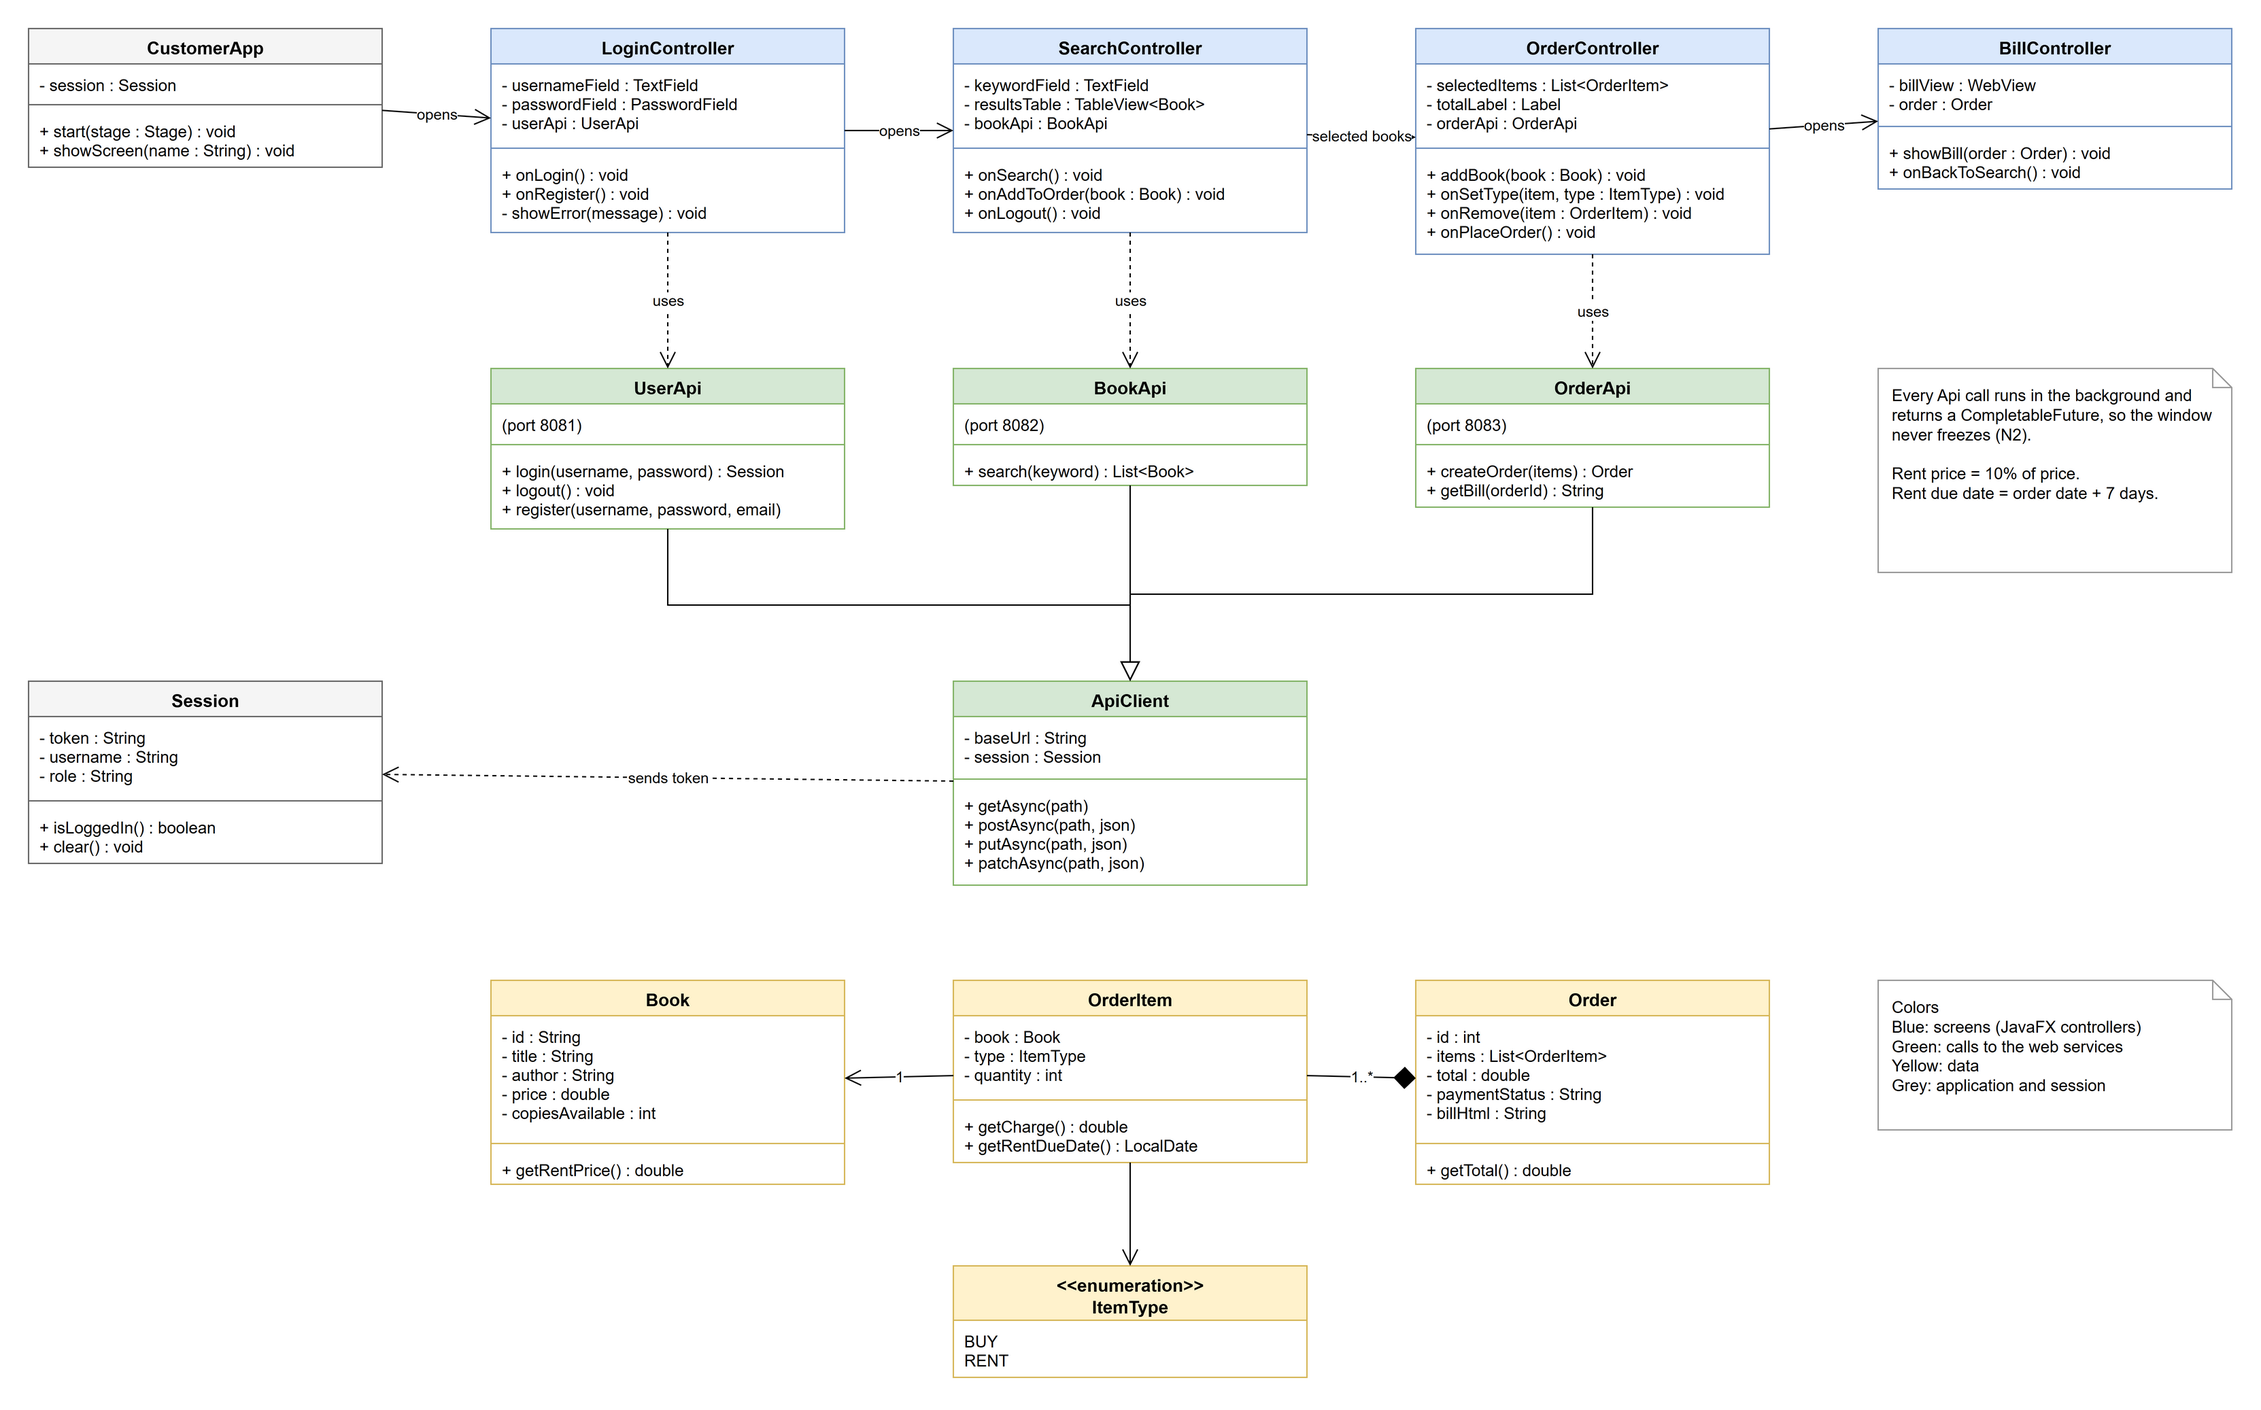
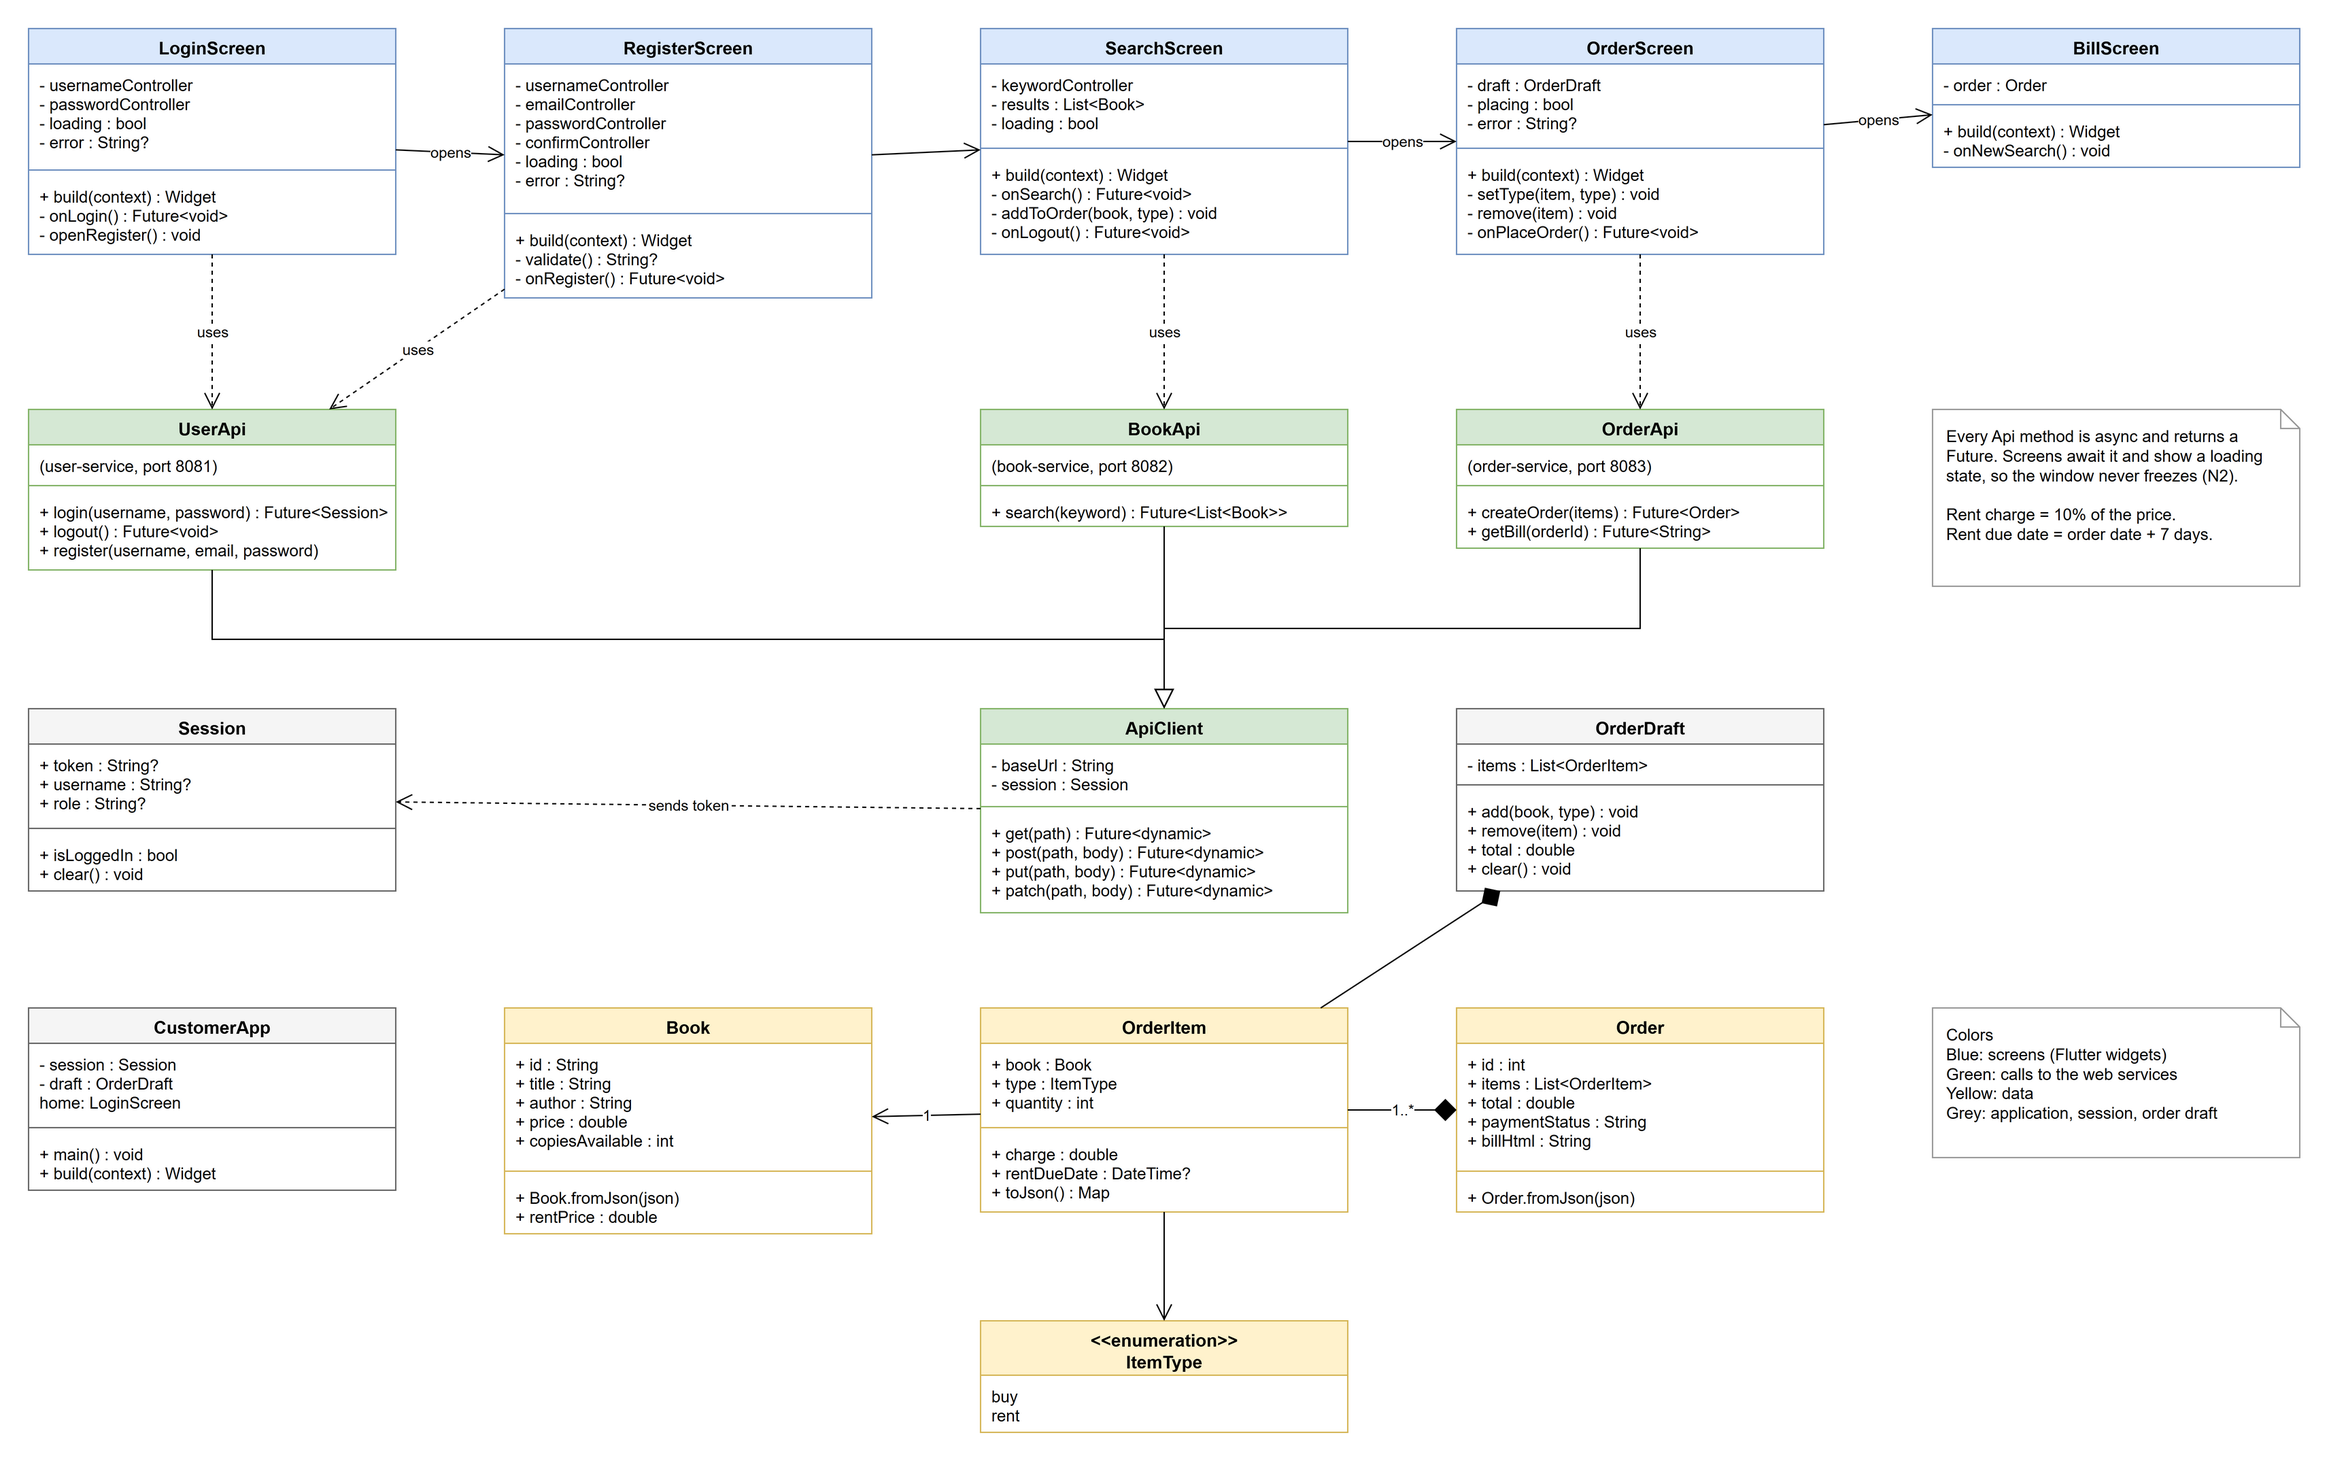
Switch the desktop apps from JavaFX to Flutter
UI and UX quality is the top priority, and Flutter gives smoother
animation and easier custom design on Windows desktop for the same
extra credit. Redraw both app class diagrams in Flutter terms and
update the other diagrams, docs, and tasks.

diff --git a/docs/02-design/class-diagrams.md b/docs/02-design/class-diagrams.md
@@ -2,15 +2,15 @@
 
 > Status: **draft**. To be finalized in milestone M2.
 
-The two desktop apps are separate JavaFX programs. Both are built the same way, in three layers:
+The two desktop apps are separate Flutter programs, written in Dart. Both are built the same way, in three layers:
 
 | Layer | Color in the diagrams | What it does |
 |---|---|---|
-| Screens (controllers) | Blue | One class per screen; reacts to buttons and shows data |
+| Screens | Blue | One widget per screen; shows data, reacts to buttons, and keeps the screen's own state (loading, error, selection) |
 | Service calls (`...Api`) | Green | One class per web service; sends HTTP requests with the session token |
-| Data | Yellow | Plain objects such as `Book` and `Order` |
+| Data | Yellow | Plain objects such as `Book` and `Order`, built from the JSON the services return |
 
-Every `...Api` class extends `ApiClient`, which sends each request in the background so the window never freezes (N2) and attaches the session token to it (N4).
+Every `...Api` class extends `ApiClient`. All of its methods are `async` and return a `Future`: the screen awaits the answer and shows a loading state meanwhile, so the window never freezes (N2). `ApiClient` also attaches the session token to every request (N4).
 
 ## Customer app
 
@@ -20,10 +20,12 @@ Source: [diagrams/class-customer-app.drawio](diagrams/class-customer-app.drawio)
 
 | Class | Purpose | Requirements |
 |---|---|---|
-| `LoginController` | Log in and register | FR1, FR3 |
-| `SearchController` | Search by keyword, show title/author/price, pick books, log out | FR2, FR4, FR5, FR6 |
-| `OrderController` | Hold the selected books, choose buy or rent for each, place the order | FR6, FR7 |
-| `BillController` | Show the bill returned for the order | FR8 |
+| `LoginScreen` | Log in | FR1 |
+| `RegisterScreen` | Create an account | FR3 |
+| `SearchScreen` | Search by keyword, show title/author/price, add books to the order, log out | FR2, FR4, FR5, FR6 |
+| `OrderScreen` | Review the selected books, choose buy or rent for each, place the order | FR6, FR7 |
+| `BillScreen` | Show the bill returned for the order | FR8 |
+| `OrderDraft` | The order being prepared, shared by the search and order screens | FR6 |
 | `UserApi`, `BookApi`, `OrderApi` | Calls to user-service, book-service, order-service | N2, N4 |
 | `Book`, `OrderItem`, `Order`, `ItemType` | Data; `OrderItem` works out the charge (10% when rented) and the rent due date (7 days) | FR7 |
 
@@ -35,11 +37,12 @@ Source: [diagrams/class-manager-app.drawio](diagrams/class-manager-app.drawio)
 
 | Class | Purpose | Requirements |
 |---|---|---|
-| `LoginController` | Log in; refuses anyone who is not a manager | FR1, FR11, N5 |
-| `OrdersController` | List all orders, mark an order as paid, view its bill | FR12, FR13 |
-| `BooksController` | Search books, add a new book, update a book | FR14 |
+| `LoginScreen` | Log in; refuses anyone who is not a manager | FR1, FR11, N5 |
+| `OrdersScreen` | List all orders, mark an order as paid, view its bill | FR12, FR13 |
+| `BooksScreen` | Search books, open the add or edit dialog | FR14 |
+| `BookFormDialog` | Add a new book or edit an existing one | FR14 |
 | `UserApi`, `OrderApi`, `BookApi` | Calls to user-service, order-service, book-service | N2, N4 |
-| `Order`, `OrderItem`, `Book`, `PaymentStatus` | Data | FR12–FR14 |
+| `Order`, `Book`, `PaymentStatus` | Data | FR12–FR14 |
 
 ## Backend services
 

diff --git a/docs/01-idea/project-idea.md b/docs/01-idea/project-idea.md
@@ -10,7 +10,7 @@ The system has:
 
 - Several backend **RESTful API web services** (Java HttpServer and Python Flask, as the PRD requires)
 - A **MySQL** database and a **MongoDB** database
-- **Two native desktop GUI applications**, not web pages (we use JavaFX)
+- **Two native desktop GUI applications**, not web pages (we use Flutter)
 
 ## User roles
 
@@ -62,7 +62,7 @@ All three extra-credit items are part of the project:
 |---|---|---|
 | FR3 — user registration | +1% | Register endpoint in user-service, register screen in the customer app |
 | FR10 — bill emailed to the customer | +1% | order-service sends the bill by email when the order is placed |
-| Modern GUI framework instead of Swing | +2% | Both apps are built with JavaFX |
+| Modern GUI framework instead of Swing | +2% | Both apps are built with Flutter |
 
 ## Non-functional requirements
 
@@ -73,7 +73,7 @@ All three extra-credit items are part of the project:
 | User services (login, logout, create user) | Java HttpServer | MySQL |
 | Book services (search, add, update) | Python Flask | MongoDB |
 | Order and billing services (create order, update payment status) | Python Flask | MySQL |
-| Customer app and Manager app (two separate programs) | Native desktop GUI. Default is Java Swing; a modern framework such as JavaFX earns +2% | — |
+| Customer app and Manager app (two separate programs) | Native desktop GUI. Default is Java Swing; a modern framework such as Flutter earns +2% | — |
 
 This is a client/server system, **not a web application**: the clients are desktop programs and do not run in a browser.
 
@@ -118,5 +118,6 @@ These were in the first draft of this document and have been removed because the
 | 2026-11-13 | Requirements replaced with the official PRD (FR1–FR14) | The first draft was a guess made before the PRD was available |
 | 2026-11-13 | Renting costs 10% of the book price and lasts 7 days | Rule given for FR7, which the PRD leaves undefined |
 | 2026-11-13 | Backend follows PRD section 4.1: Java HttpServer for users, Python Flask for books and for orders | The PRD fixes the technology of each service, so "Java everywhere" is not allowed |
-| 2026-11-13 | Both clients in JavaFX | Still Java, and a modern GUI framework earns +2% over Swing |
+| 2026-11-13 | Both clients in JavaFX | Still Java, and a modern GUI framework earns +2% over Swing. **Replaced below.** |
 | 2026-11-13 | Do every extra-credit item: FR3, FR10, and a modern GUI framework | +4% in total |
+| 2026-11-13 | Both clients in Flutter instead of JavaFX | UI and UX quality is the top priority; Flutter gives smoother animation and easier custom design on Windows desktop, and earns the same +2%. Cost: a third language (Dart) |

diff --git a/docs/02-design/architecture.md b/docs/02-design/architecture.md
@@ -46,7 +46,7 @@ Manager-only actions are refused unless the session belongs to a manager (FR11).
 | ID | How |
 |---|---|
 | N1 (under 500 ms) | Small, simple queries; a search index on book title and author; response times measured during testing |
-| N2 (no freezing) | Every call from a client to a service runs in a JavaFX background `Task`, never on the UI thread |
+| N2 (no freezing) | Every call from a client to a service is a Dart `async` call returning a `Future`; the screen awaits it and shows a loading state, so the UI is never blocked |
 | N3 (hashed passwords) | user-service hashes passwords with bcrypt before saving them |
 | N4 (token required) | Every endpoint except login and register rejects requests without a valid session token |
 | N5 (own data, own role) | Each endpoint checks the role: only customers place orders, only managers list all orders, change payment status, or add and update books. A customer can only open their own bill |
@@ -61,7 +61,7 @@ Manager-only actions are refused unless the session belongs to a manager (FR11).
 | # | Date | Decision | Alternatives considered | Reason |
 |---|---|---|---|---|
 | 1 | 2026-11-13 | Java HttpServer for user-service; Python Flask for book-service and order-service | Spring Boot for all three (first draft) | Required by PRD section 4.1 |
-| 2 | 2026-11-13 | JavaFX for both clients | Swing (the default) | Modern GUI framework earns +2%; layout is separate from logic |
+| 2 | 2026-11-13 | Flutter for both clients | Swing (the default), JavaFX (first choice), React Native | UI and UX quality is the priority: Flutter draws its own pixels, so animation is smooth and custom design is easy on Windows desktop. Earns +2%. React Native has weaker Windows desktop support |
 | 3 | 2026-11-13 | Session token stored in MySQL | JWT | Simple to explain, and logout really ends the session (FR2) |
 | 4 | 2026-11-13 | order-service generates the bill | A separate billing service | The bill is made at the moment the order is created; one less service |
 | 5 | 2026-11-13 | order-service reduces book copies through a service-only endpoint protected by a shared key | Let customers call the manager endpoint; skip stock changes | Stock must go down when a book is ordered, but customers must not be able to change stock themselves (N5) |

diff --git a/docs/04-planning/milestones.md b/docs/04-planning/milestones.md
@@ -39,8 +39,9 @@ The live version of this plan is on GitHub: milestones hold the deadlines, issue
 
 ### M4 — Desktop Clients (due 2026-12-01)
 
-- [ ] customer-app in JavaFX, asynchronous calls (N2): login, search, select books, place order, see bill
-- [ ] management-app in JavaFX, asynchronous calls (N2): login, orders list, payment status, add and update books
+- [ ] Install Flutter and create the two desktop projects
+- [ ] customer-app in Flutter, asynchronous calls (N2): register, login, search, select books, place order, see bill
+- [ ] management-app in Flutter, asynchronous calls (N2): login, orders list, payment status, add and update books
 
 ### M5 — Testing & Final Release (due 2026-12-04)
 
@@ -51,7 +52,7 @@ The live version of this plan is on GitHub: milestones hold the deadlines, issue
 
 - [ ] FR3: user registration (+1%) — with user-service in M3 and the customer app in M4
 - [ ] FR10: email the bill to the customer (+1%) — with order-service in M3
-- [ ] Modern GUI framework (+2%) — both apps in JavaFX, M4
+- [ ] Modern GUI framework (+2%) — both apps in Flutter, M4
 
 ## Progress notes
 
@@ -65,3 +66,4 @@ Add a short dated note whenever a milestone closes or a deadline moves, and say 
 | 2026-11-13 | Non-functional requirements received. Backend stack changed from Spring Boot to Java HttpServer + Python Flask (see problem log P-001). Deadlines unchanged. |
 | 2026-11-13 | UML diagrams drawn in draw.io (first drafts), ahead of the M2 deadline. Deployment, package, and composite structure diagrams were drawn and then dropped as not needed. |
 | 2026-11-13 | Decided to do every extra-credit item. Use case descriptions, more sequence and activity diagrams, database scripts, API specification, wireframes, and bill layout drafted. Visual style of the apps still open. |
+| 2026-11-13 | Client framework changed from JavaFX to Flutter because UI/UX quality is the priority. App class diagrams redrawn. Flutter is not installed yet. |

diff --git a/docs/02-design/ui-design.md b/docs/02-design/ui-design.md
@@ -35,7 +35,11 @@ Wireframes show **what is on each screen and where**. They are grey boxes on pur
 - Errors appear as one line of text next to the form, not as pop-up dialogs.
 - "Add to order" is disabled for a book with 0 copies. "Mark as paid" is disabled for an order that is already Paid.
 
-## 2. Visual style (not decided yet)
+## 2. Why Flutter
+
+UI and UX quality is the top priority of this project, so both apps are built with Flutter: it draws every pixel itself, which makes smooth animation and a custom look much easier than in JavaFX or Swing.
+
+## 3. Visual style (not decided yet)
 
 The look of the apps is a separate decision from the layout, and it has not been made. It needs a real reference to aim at, otherwise the result is a generic template.
 
@@ -52,4 +56,4 @@ Constraints already known:
 - These are desktop tools used with a mouse and keyboard, with tables as the main content. They should look like a desktop program, not like a phone app or a marketing web page.
 - The bill is already designed as a plain printed document ([bill-design.md](bill-design.md)); the apps should not clash with it.
 
-Once the style is decided, it is written here as a short style guide and applied through one shared stylesheet used by both apps.
+Once the style is decided, it is written here as a short style guide and applied through one shared Flutter theme used by both apps.

diff --git a/CHANGELOG.md b/CHANGELOG.md
@@ -19,6 +19,7 @@ All versions and patches of the project, newest first.
 ### Changed
 - Registration (FR3) and emailing the bill (FR10) are no longer optional: every extra-credit item is being done
 - Placing an order now reduces the available copies of each book
+- Desktop apps switched from JavaFX to Flutter, because UI/UX quality is the priority; app class diagrams redrawn
 - Requirements replaced with the official PRD (FR1–FR14); design docs, diagrams, and tasks corrected to match
 - Roles are now Customer and Manager; login uses username and a session
 - Orders now carry a payment status (Pending/Paid) and produce an HTML bill

diff --git a/docs/02-design/uml-diagrams.md b/docs/02-design/uml-diagrams.md
@@ -48,7 +48,7 @@ Stereotypes are our own labels that extend standard UML. Where each one applies:
 | Stereotype | Applies to | Used for |
 |---|---|---|
 | `«RestService»` | Component | user-service, book-service, order-service |
-| `«JavaFxScreen»` | Class | The controllers in both apps (`LoginController`, `SearchController`, ...) |
+| `«FlutterScreen»` | Class | The screens in both apps (`LoginScreen`, `SearchScreen`, ...) |
 | `«ApiCall»` | Class | `UserApi`, `BookApi`, `OrderApi` |
 | `«MySqlTable»` | Class | `USERS`, `SESSIONS`, `ORDERS`, `ORDER_ITEMS` |
 | `«MongoCollection»` | Class | `books` |

diff --git a/README.md b/README.md
@@ -38,7 +38,7 @@ Dates and tasks: [docs/04-planning/milestones.md](docs/04-planning/milestones.md
 | Order and billing service | Python, Flask |
 | Relational database | MySQL |
 | Document database | MongoDB |
-| Desktop clients (customer, manager) | Java, JavaFX |
+| Desktop clients (customer, manager) | Flutter (Dart), Windows desktop |
 | Version control | Git + GitHub (milestones, issues, releases) |
 
 ## Workflow

diff --git a/clients/README.md b/clients/README.md
@@ -1,6 +1,6 @@
 # Desktop clients
 
-Each client is its own JavaFX (Maven) project, added during milestone M4:
+Each client is its own Flutter desktop project (written in Dart), added during milestone M4:
 
 - `customer-app/` — for customers: log in, search books, select and order them
 - `management-app/` — for managers: view orders, update payment status, add and update books
